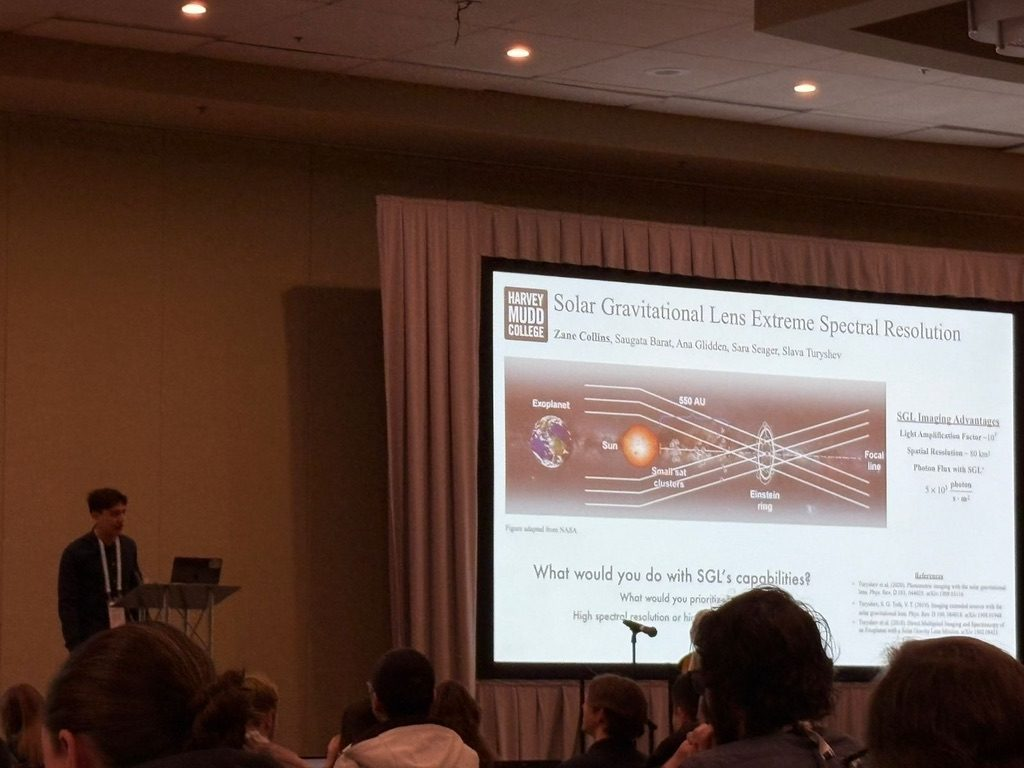
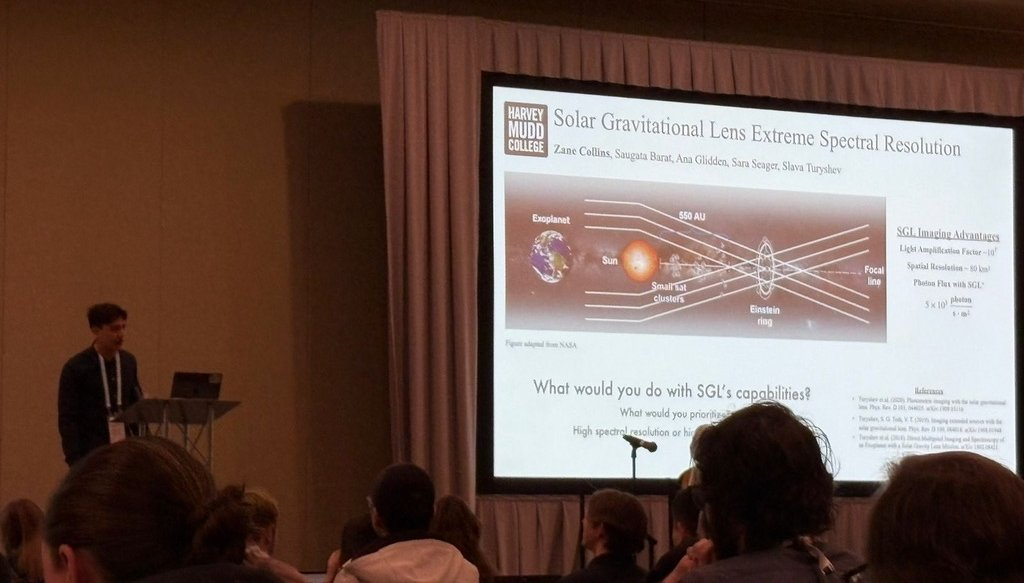
Crop ceiling from presentation photo
Claude-Session: https://claude.ai/code/session_01K6phzLpYG9jV94ATrowGrQ

diff --git a/index.html b/index.html
@@ -171,7 +171,7 @@ footer { color: var(--muted); font-size: 0.85rem; border-top: 1px solid var(--ru
         <p>At JWST-like resolving power (R ~ 10³), overlapping features from different molecules blend together and make trace-gas biosignatures hard to identify. The SGL’s photon amplification (~10¹¹ at ~1 μm) can instead be spent on spectroscopy, reaching R ~ 10⁶–10⁷, with practical limits set by the solar-corona background, the SGL point-spread function, and reconstruction losses.</p>
         <p class="out">First-author poster, AASTCS 11: Exoplanet Atmospheres (2026). First-author manuscript in preparation.</p>
         <figure class="talk">
-          <img src="img/aastcs-talk.jpg" alt="Zane Collins at a podium beside a projected slide titled Solar Gravitational Lens Extreme Spectral Resolution" loading="lazy" width="1024" height="768">
+          <img src="img/aastcs-talk.jpg" alt="Zane Collins at a podium beside a projected slide titled Solar Gravitational Lens Extreme Spectral Resolution" loading="lazy" width="1024" height="583">
           <figcaption>Presenting the SGL work at AASTCS 11: Exoplanet Atmospheres (2026).</figcaption>
         </figure>
       </div>
